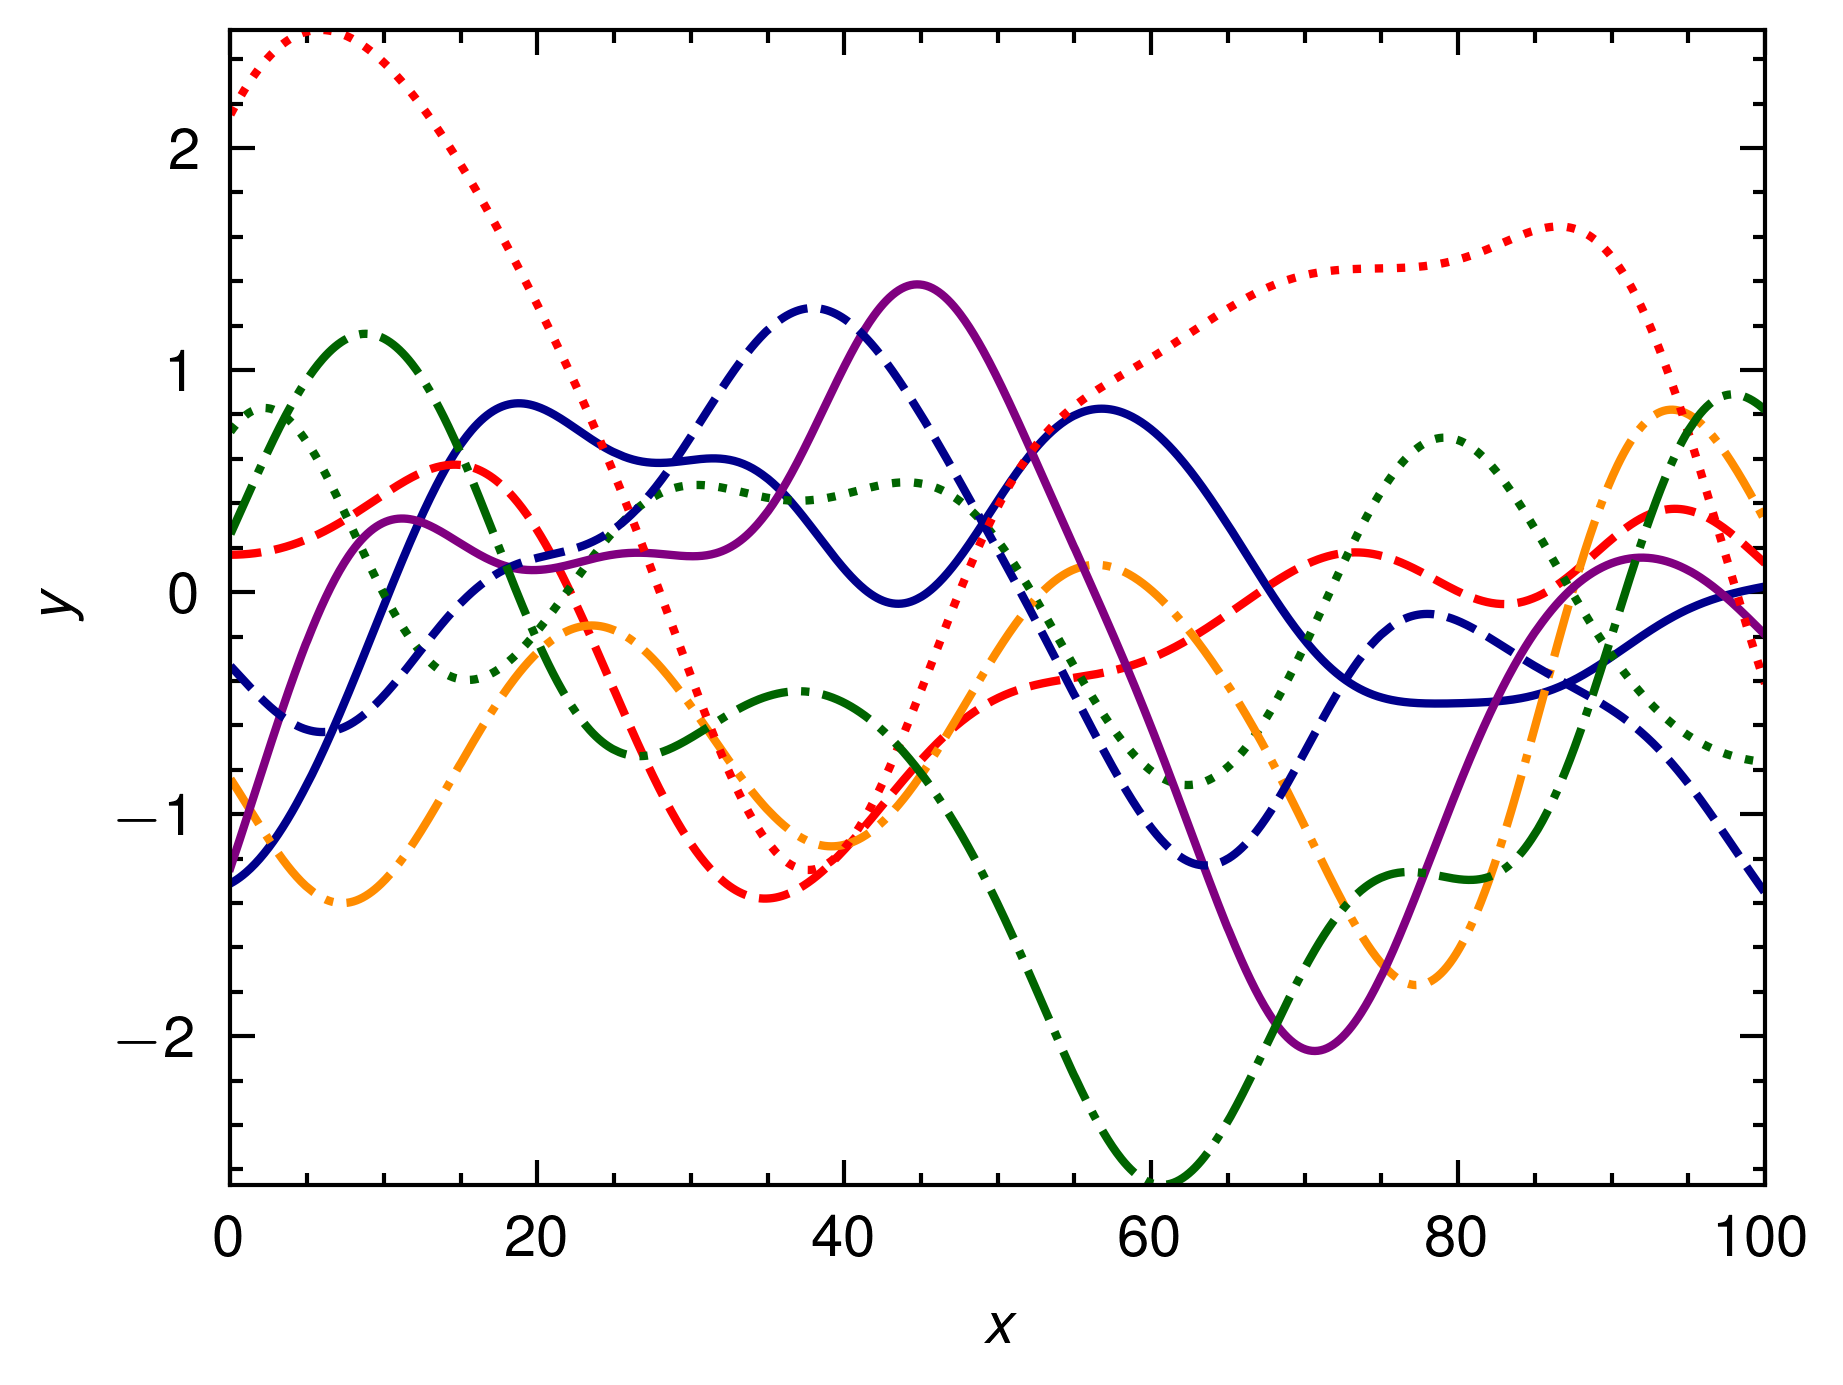
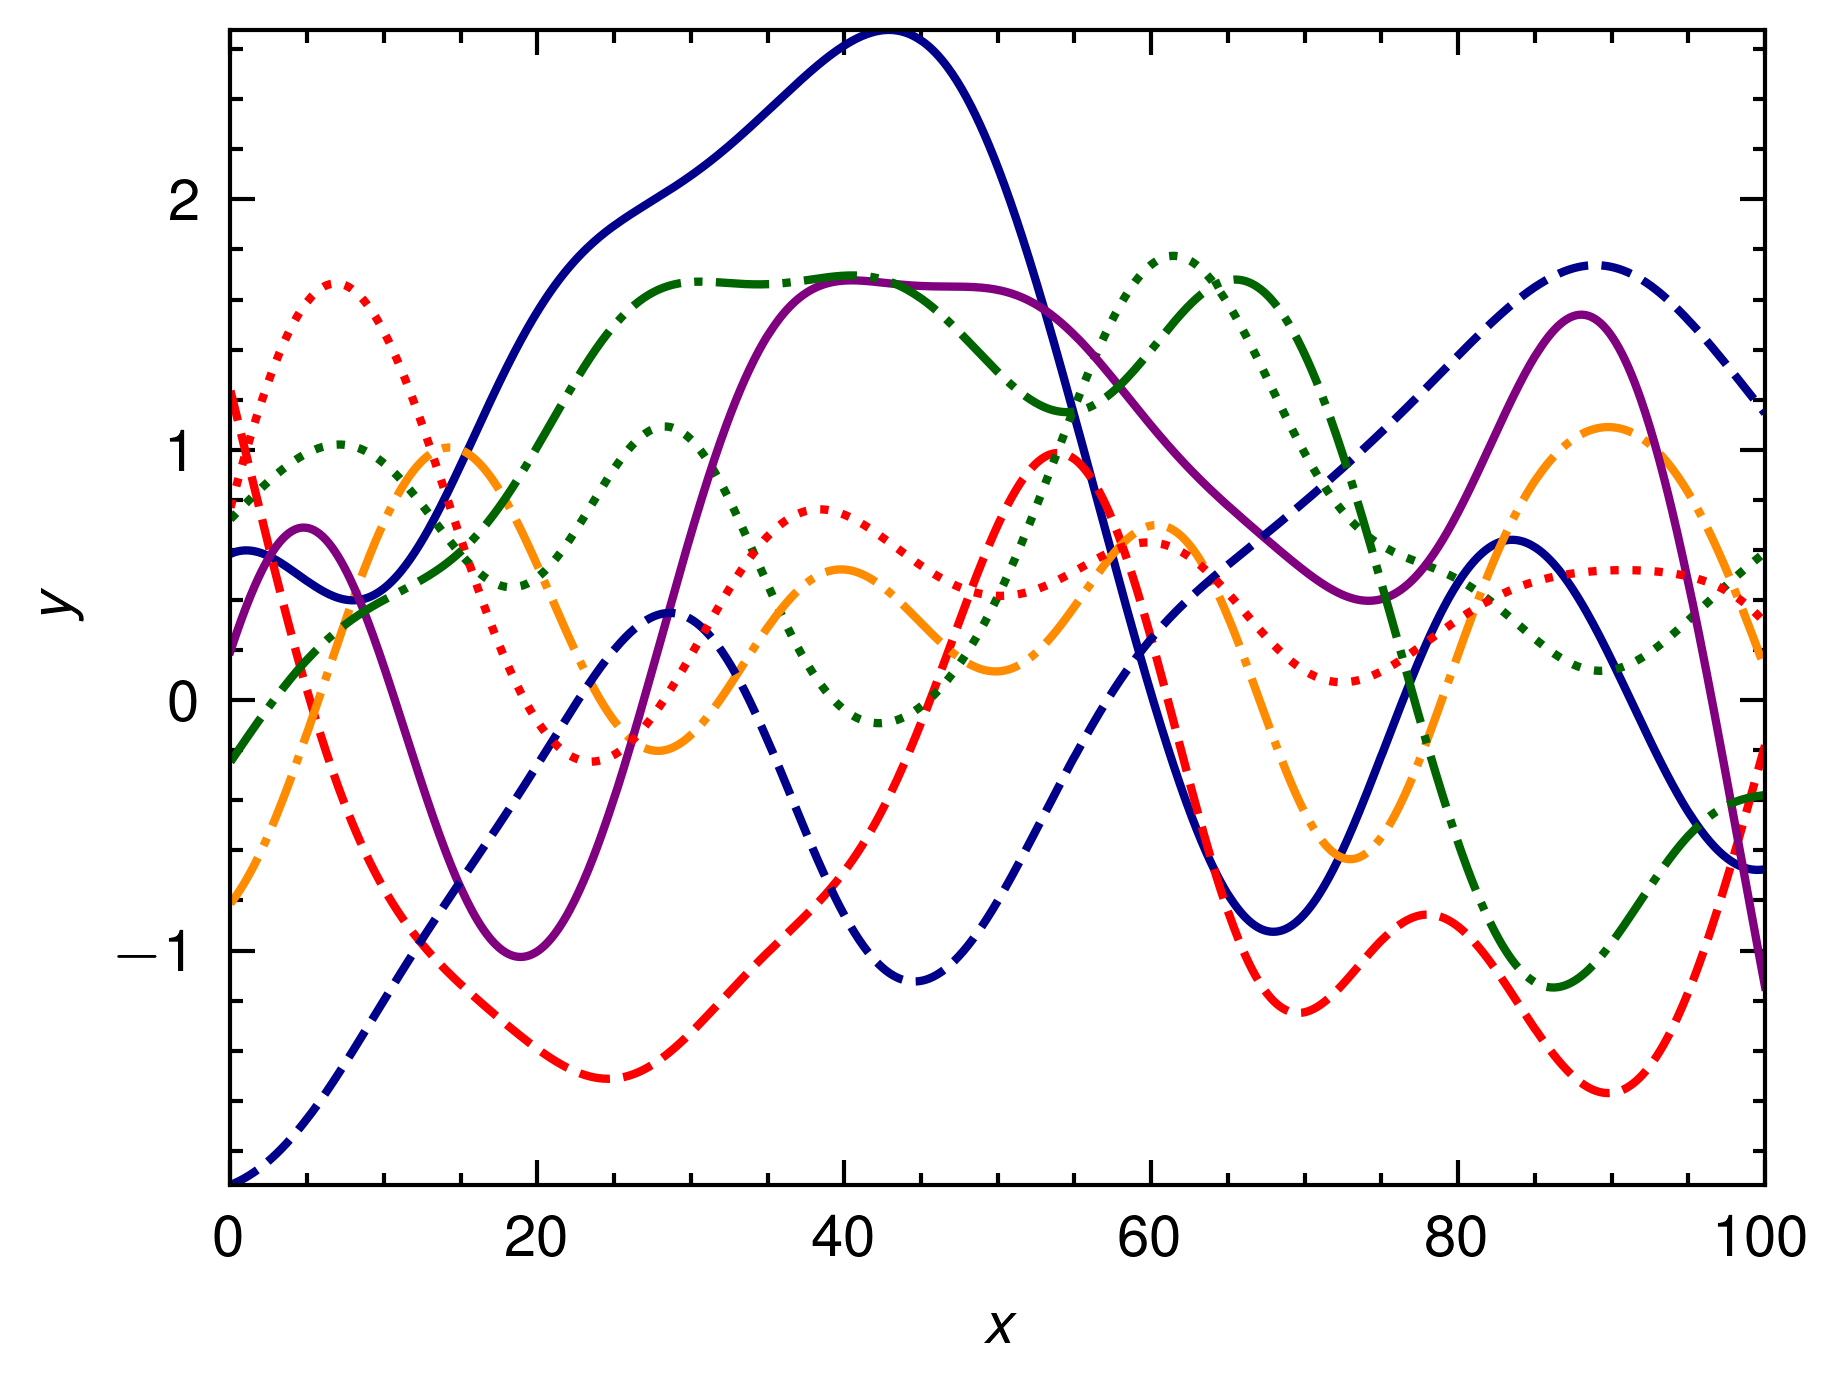
Ver 0.2.2 - GRF with rng

diff --git a/src/lib.rs b/src/lib.rs
@@ -63,6 +63,65 @@ pub fn grf(n: usize, kernel: Kernel) -> Vec<f64> {
     y[..n].to_vec()
 }
 
+/// Gaussian Random Fields using circulant embedding method 1 with rng
+///
+/// * Reference: Chan, Grace., An Effective Method for Simulating Gaussian Random Fields (1999)
+pub fn grf_with_rng<R: Rng + Clone>(rng: &mut R, n: usize, kernel: Kernel) -> Vec<f64> {
+    // Calculate the power of 2 greater than or equal to 2(n-1)
+    let g = (2f64 * (n - 1) as f64).log2().ceil() as i32;
+    let mut m = 2f64.powi(g) as usize;
+
+    // Perform circulant embedding until a valid embedding is found
+    let qa = loop {
+        let c = circulant_embedding(m, n, |dx| kernel.eval(dx));
+        let mut planner = FftPlanner::new();
+        let fft = planner.plan_fft_forward(m);
+        let mut c_fft = c.iter().map(|x| Complex::new(*x, 0f64)).collect::<Vec<_>>();
+        fft.process(&mut c_fft);
+        let c_fft = c_fft.iter().map(|x| x.re).collect::<Vec<_>>();
+        let c_min = c_fft.iter().min_by(|&x, &y| x.partial_cmp(y).unwrap()).unwrap();
+
+        if c_min >= &0f64 {
+            break c_fft.fmap(|t| t.sqrt());
+        } else if c_min.abs() < 1e-6 {
+            break c_fft.fmap(|t| trunc(t).sqrt());
+        } else {
+            m *= 2;
+        }
+    };
+
+    // Generate random samples from a standard normal distribution
+    let normal = Normal(0f64, 1f64);
+    let z = normal.sample_with_rng(rng, m);
+
+    // Perform inverse FFT on the random samples
+    let mut planner = FftPlanner::new();
+    let fft = planner.plan_fft_inverse(m);
+    let mut z_fft = z.iter().map(|x| Complex::new(*x, 0f64)).collect::<Vec<_>>();
+    fft.process(&mut z_fft);
+    z_fft.iter_mut().for_each(|x| *x /= m as f64);
+
+    // Multiply the inverse FFT result with the square root of the circulant embedding
+    let mut a = z_fft.into_iter()
+        .zip(qa)
+        .map(|(x, y)| x * y)
+        .collect::<Vec<_>>();
+
+    // Perform forward FFT on the result
+    let mut planner = FftPlanner::new();
+    let fft = planner.plan_fft_forward(m);
+    fft.process(&mut a);
+
+    // Extract the real part of the FFT result
+    let y = a
+        .iter()
+        .map(|x| x.re)
+        .collect::<Vec<_>>();
+
+    // Return the first n elements of the result
+    y[..n].to_vec()
+}
+
 /// Circulant embedding function
 pub fn circulant_embedding<F: Fn(f64) -> f64>(m: usize, n: usize, kernel: F) -> Vec<f64> {
     let mut c = vec![0f64; m];

diff --git a/examples/seed_test.rs b/examples/seed_test.rs
@@ -1,0 +1,44 @@
+use peroxide::fuga::*;
+use rugfield::{grf_with_rng, Kernel::SquaredExponential};
+
+fn main() -> Result<(), Box<dyn Error>> {
+    let x_max = 100.0;
+    let x_min = 0.0;
+    let sigma = 0.1;
+    let n = 1000;
+    let samples = 8;
+
+    let kernel = SquaredExponential(sigma);
+    let mut rng = smallrng_from_seed(42);
+
+    let x = linspace_with_precision(x_min, x_max, n, 2);
+    let grfs = (0 .. samples).map(|_| grf_with_rng(&mut rng, n, kernel)).collect::<Vec<_>>();
+
+    // Plot
+    let line_style_cands = [LineStyle::Solid, LineStyle::Dashed, LineStyle::Dotted, LineStyle::DashDot];
+    let color_cands = ["darkblue", "red", "darkgreen", "darkorange", "purple"];
+    let mut line_style = vec![];
+    let mut color = vec![];
+    for i in 0 .. samples {
+        line_style.push((i, line_style_cands[i % line_style_cands.len()]));
+        color.push((i, color_cands[i % color_cands.len()]));
+    }
+
+    let mut plt = Plot2D::new();
+    plt.set_domain(x);
+    for grf in grfs.into_iter() {
+        plt.insert_image(grf);
+    }
+    plt
+        .set_line_style(line_style)
+        .set_color(color)
+        .set_xlabel(r"$x$")
+        .set_ylabel(r"$y$")
+        .tight_layout()
+        .set_style(PlotStyle::Nature)
+        .set_dpi(600)
+        .set_path("examples/assets/seed_test.png")
+        .savefig()?;
+
+    Ok(())
+}

diff --git a/README.md b/README.md
@@ -19,7 +19,7 @@ Add the following to your `Cargo.toml` file:
 
 ```toml
 [dependencies]
-rugfield = "0.2.1"
+rugfield = "0.2.2"
 ```
 
 ## Usage
@@ -61,6 +61,21 @@ fn main() -> Result<(), Box<dyn Error>> {
     // ...
 
     Ok(())
+}
+```
+
+With a specific random number generator:
+
+```rust
+use peroxide::fuga::*;
+use rugfield::{grf_with_rng, Kernel::SquaredExponential};
+
+fn main() -> Result<(), Box<dyn Error>> {
+    let n = 100;
+    let kernel = SquaredExponential(0.1);
+    let mut rng = stdrng_from_seed(42);
+    let grf_data = grf_with_rng(&mut rng, n, kernel);
+    // ...
 }
 ```
 

diff --git a/RELEASES.md b/RELEASES.md
@@ -1,3 +1,8 @@
+# Ver 0.2.2 (2024-05-15)
+
+- Implement `grf_with_rng` function
+- Bump `peroxide` to `0.37.3`
+
 # Ver 0.2.1 (2024-04-07)
 
 - Implement more kernels
